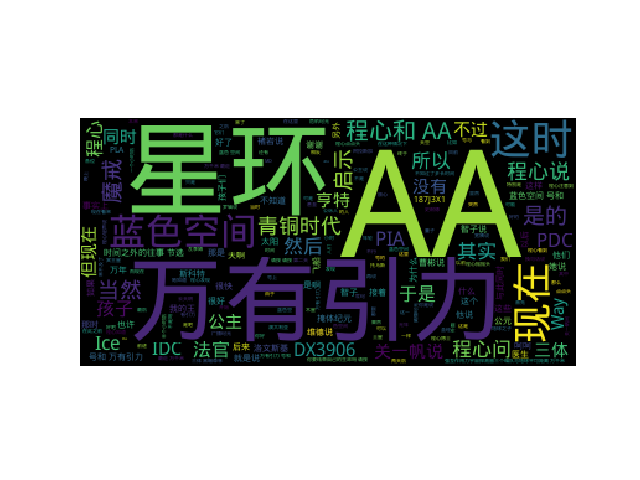
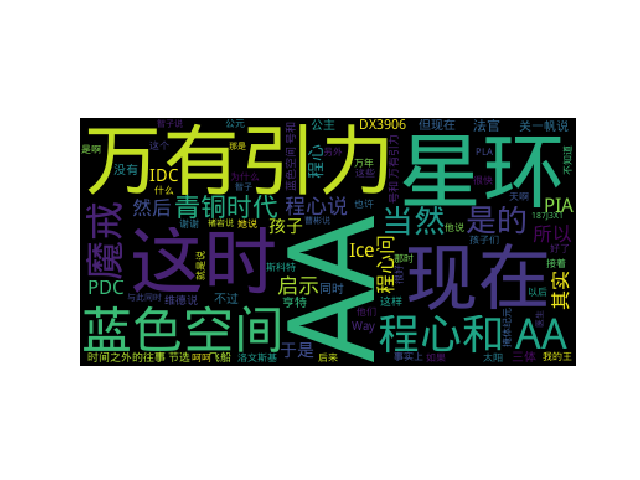
update wordcloud

Changed region(s): [[0.125, 0.25, 0.9062, 0.7812]]

diff --git a/python/my_word_cloud.py b/python/my_word_cloud.py
@@ -12,28 +12,27 @@ from os import path
 import matplotlib.pyplot as plt
 import random
 import os
+from matplotlib import font_manager
 
 from wordcloud import WordCloud, STOPWORDS
 
 
-font=os.path.join(os.path.dirname(__file__), "DroidSansFallbackFull.ttf")
+font = "DroidSansFallbackFull.ttf"
+zhfont1 = font_manager.FontProperties(fname='DroidSansFallbackFull.ttf')  # 中文配置字体
 
 def grey_color_func(word, font_size, position, orientation, random_state=None, **kwargs):
     return "hsl(0, 0%%, %d%%)" % random.randint(60, 100)
 
-d = path.dirname(__file__)
+mask = np.array(Image.open(r'D:\Big_data\大数据学习\data_science_way\python\04.png'))
 
 
-mask = np.array(Image.open(path.join(d, "stormtrooper_mask.png")))
-#mask = np.array(Image.open(path.join(d, "04.png")))
-
-
-text = open(u"santi.txt").read().decode('gbk')
+text = open(r"D:\Big_data\大数据学习\data_science_way\python\santi.txt").read()
 
 # preprocessing the text a little bit
-text = text.replace(u"程心说", u"程心")
-text = text.replace(u"程心和", u"程心")
-text = text.replace(u"程心问", u"程心")
+text = text.replace("程心说", "程心")
+text = text.replace("程心和", "程心")
+text = text.replace("程心问", "程心")
+text = text.replace("程心*", "程心")
 
 # adding movie script specific stopwords
 stopwords = set(STOPWORDS)
@@ -46,10 +45,11 @@ wc = WordCloud(font_path=font,max_words=2000, mask=mask, stopwords=stopwords, ma
 default_colors = wc.to_array()
 plt.title("Custom colors")
 plt.imshow(wc.recolor(color_func=grey_color_func, random_state=3))
-wc.to_file("a_new_hope.png")
+wc.to_file("b_new_hope.png")
 plt.axis("off")
 plt.figure()
-plt.title(u"三体-词频统计")
+plt.title("三体-词频统计", fontproperties=zhfont1)  # 需配置字体，不然会中文显示乱码
 plt.imshow(default_colors)
 plt.axis("off")
+plt.savefig('b_new_hope1.png')
 plt.show()
